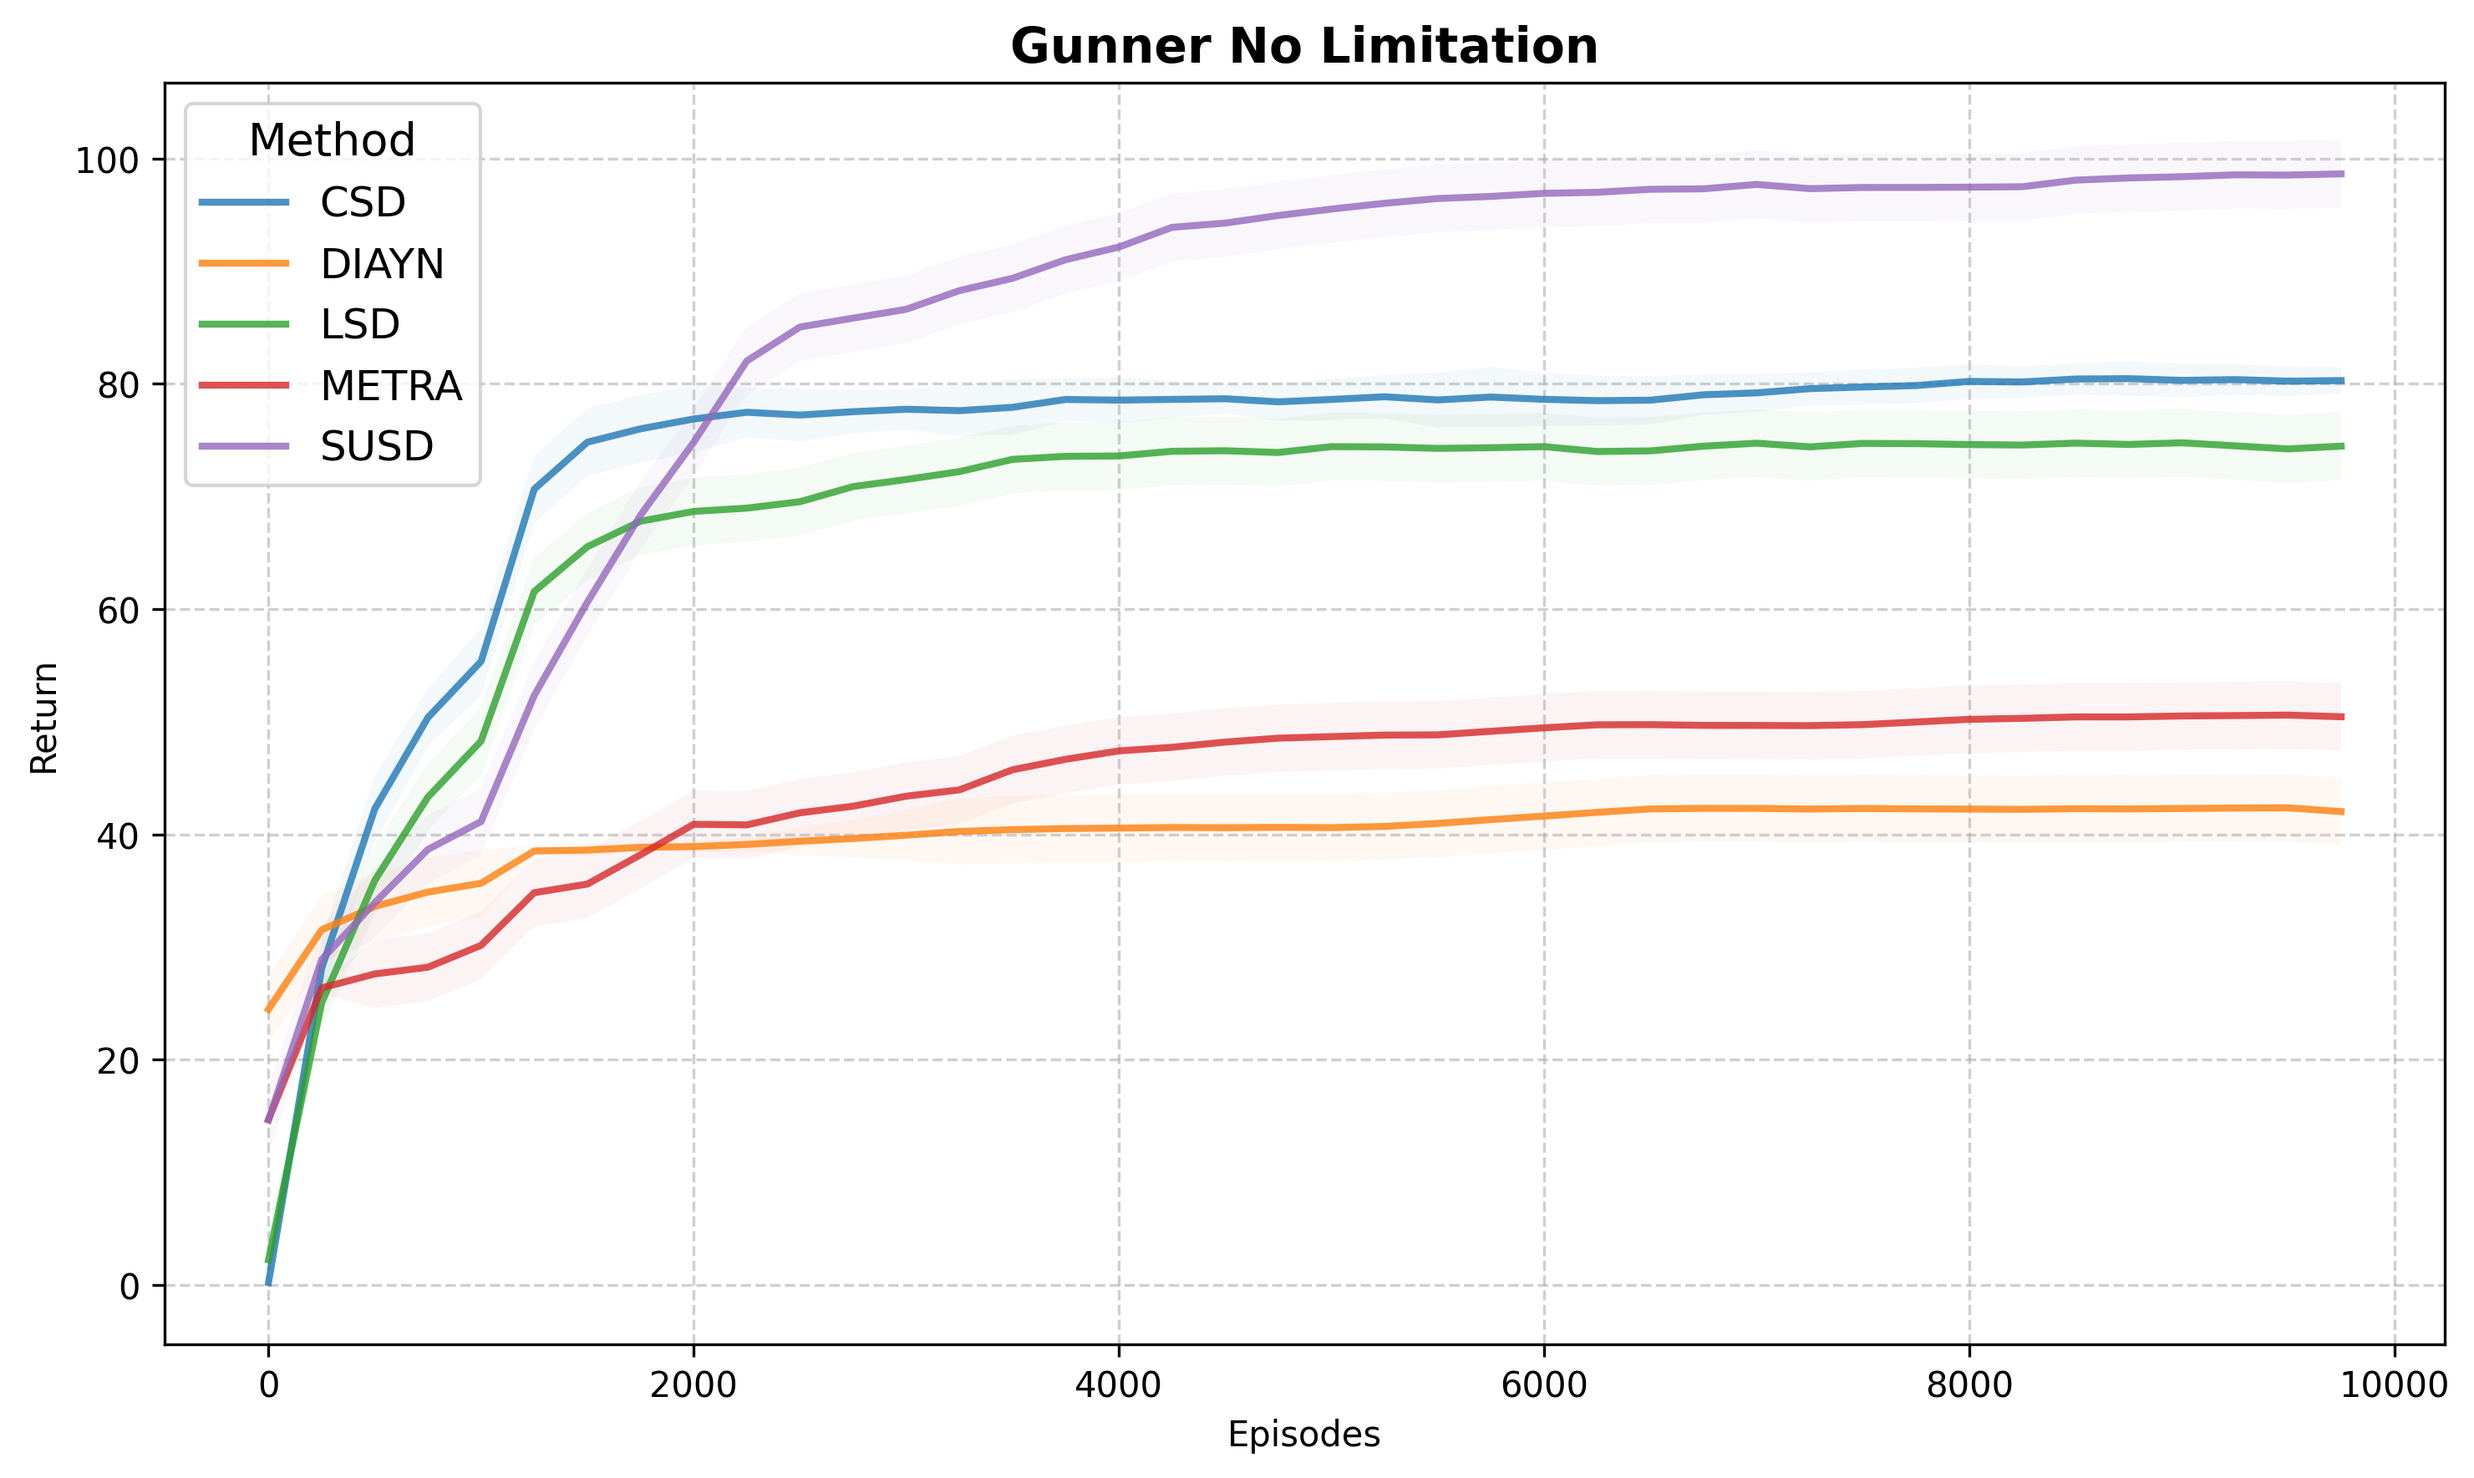
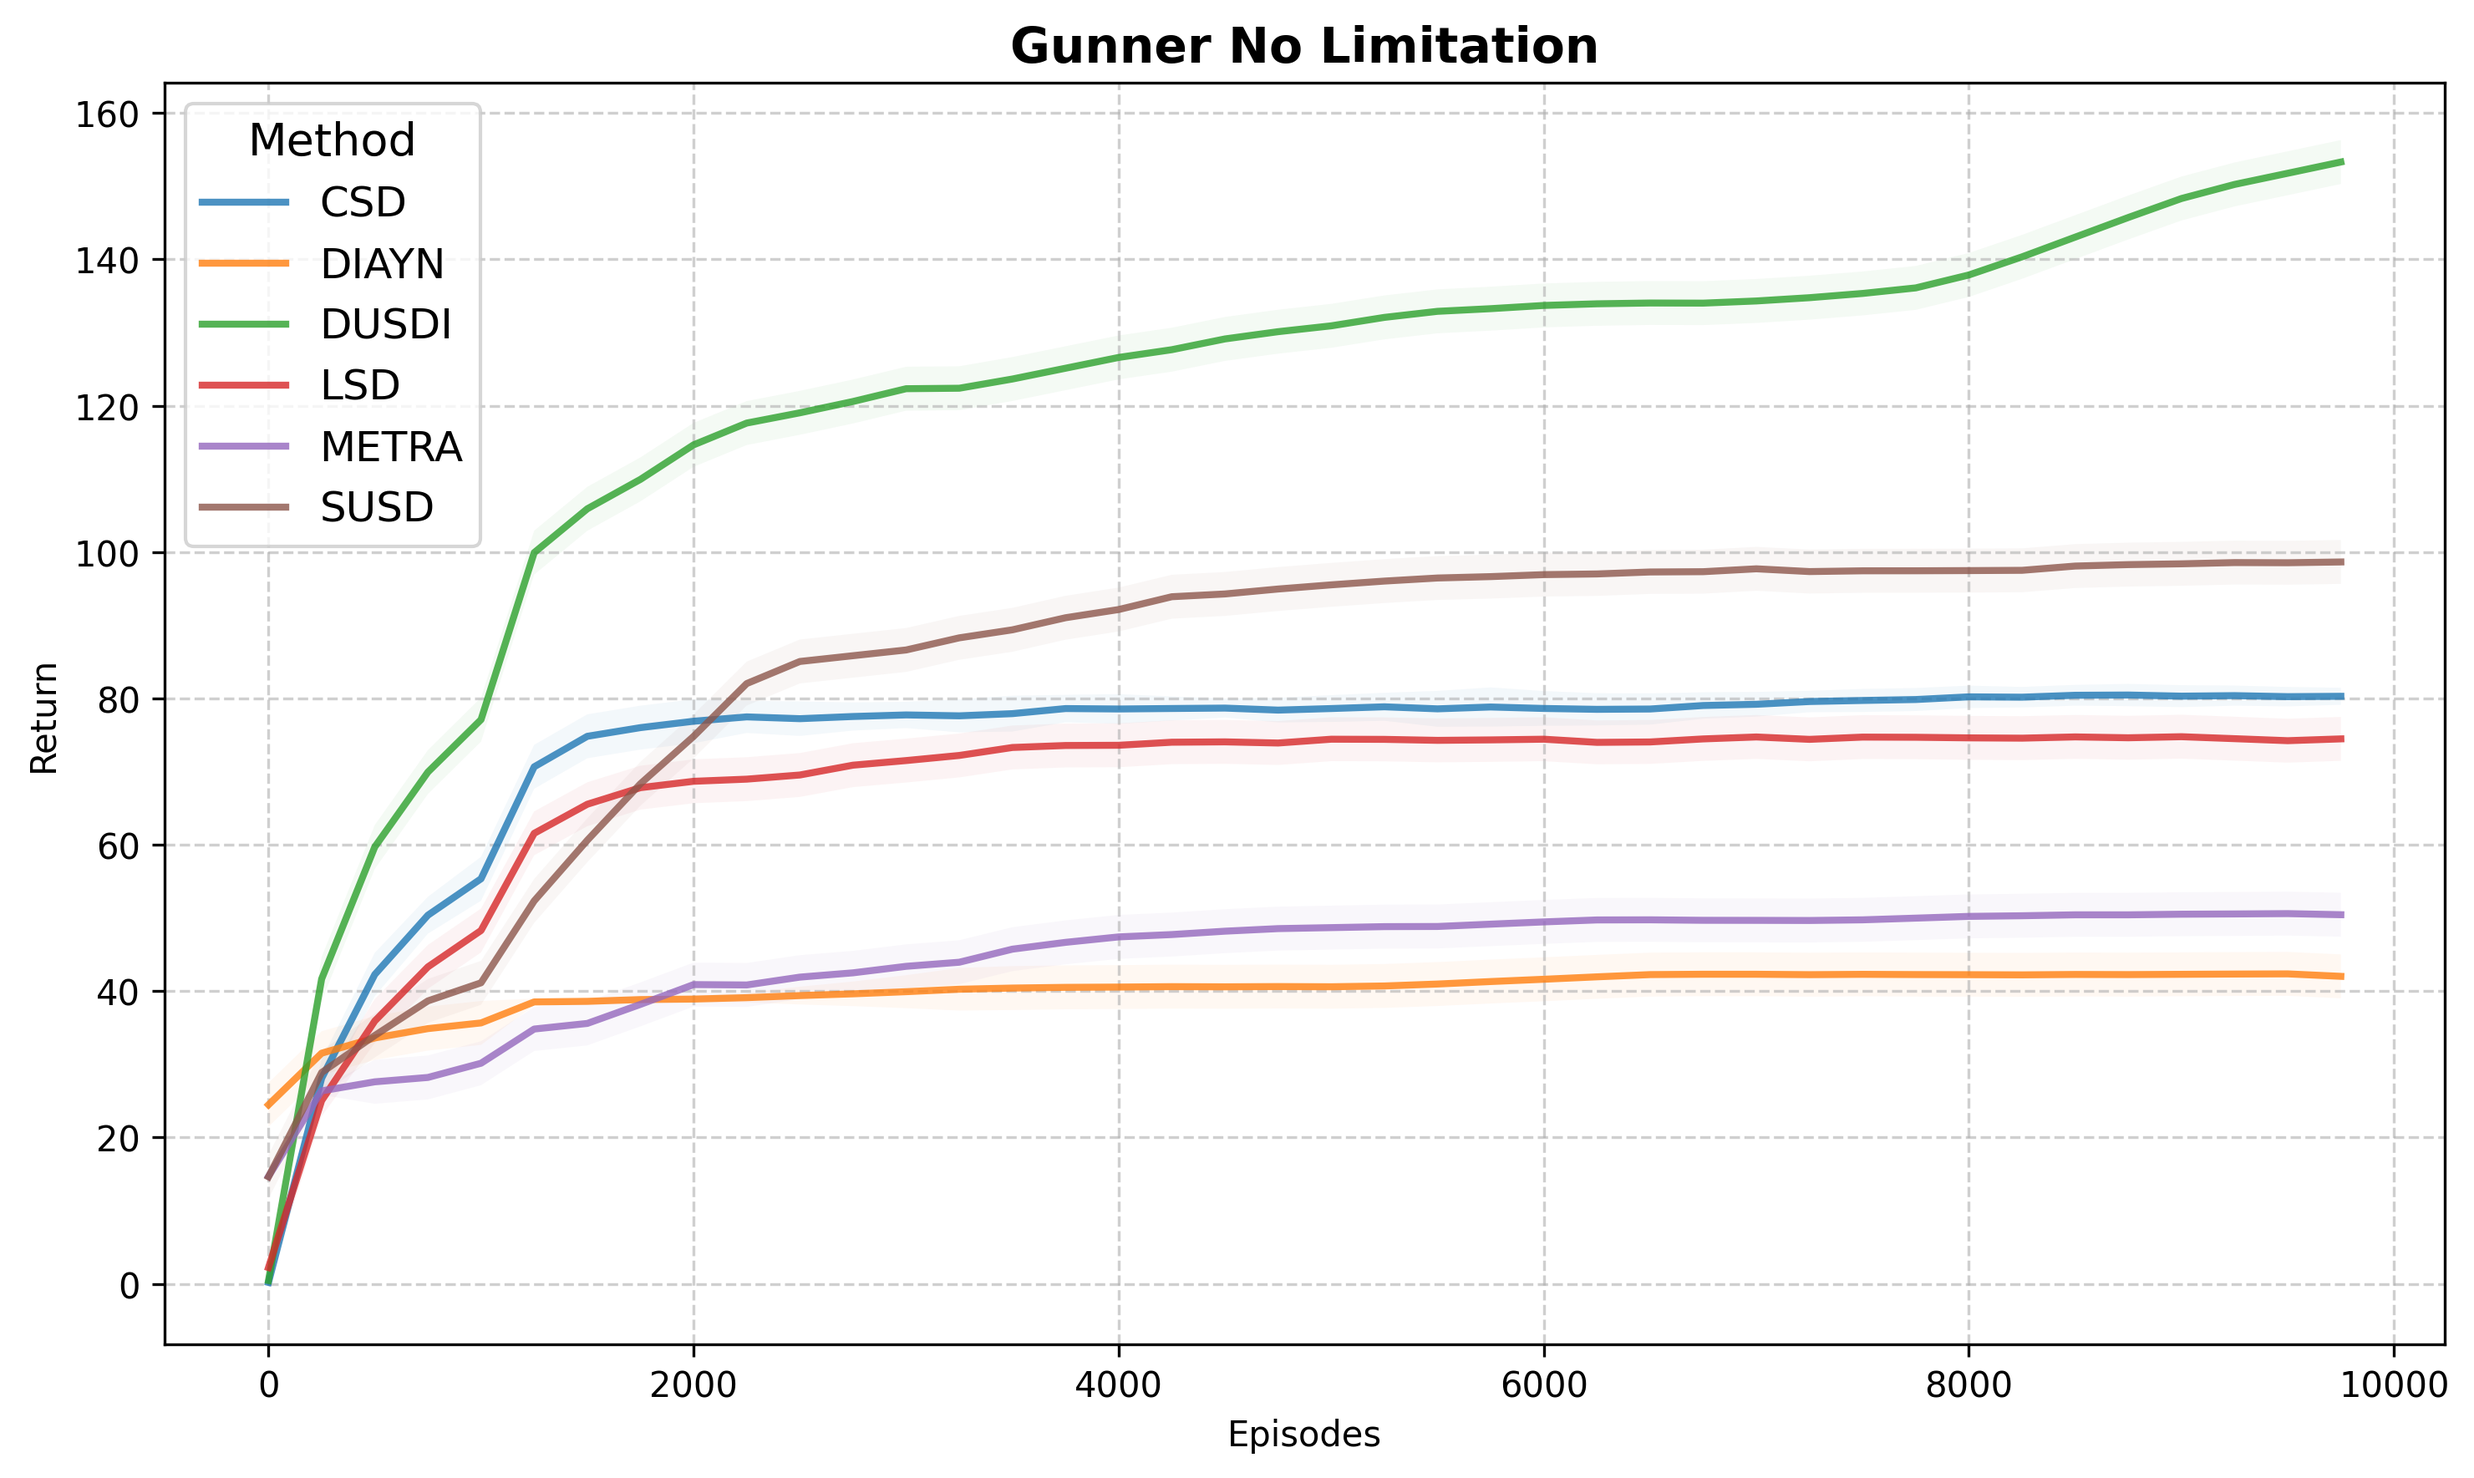
the first version of oversampling add

diff --git a/iod/susd.py b/iod/susd.py
@@ -41,7 +41,7 @@ class SUSD(IOD):
             q1_list,
             # log_alpha_list,
             susd_q_function,
-            susd_ablation1,
+            susd_ablation_mode,
 
             **kwargs,
     ):
@@ -98,7 +98,11 @@ class SUSD(IOD):
         self.exp_name = exp_name
         self.susd_dist_norm = susd_dist_norm
         self.susd_input_factor0 = susd_input_factor0
-        self.susd_ablation1 = susd_ablation1
+        self.susd_ablation_mode = susd_ablation_mode
+
+
+        self.adaptive_base = 0.0
+        self.adapative_base_count = 0
 
         assert self._trans_optimization_epochs is not None
 
@@ -134,8 +138,12 @@ class SUSD(IOD):
             epoch_data[key] = torch.tensor(np.concatenate(value, axis=0), dtype=torch.float32, device=self.device)
         return epoch_data
 
-    def _update_replay_buffer(self, data):
+    def _update_replay_buffer(self, data, oversample_factor=100):
         if self.replay_buffer is not None:
+
+            if self.susd_ablation_mode == 3:
+                csd_distances = data.pop('csd_distances')
+            
             # Add paths to the replay buffer
             for i in range(len(data['actions'])):
                 path = {}
@@ -144,7 +152,12 @@ class SUSD(IOD):
                     if cur_list.ndim == 1:
                         cur_list = cur_list[..., np.newaxis]
                     path[key] = cur_list
+
                 self.replay_buffer.add_path(path)
+                
+                if self.susd_ablation_mode == 3 and csd_distances[i] > self.adaptive_base: # oversample good samples in the buffer
+                    for _ in range(oversample_factor - 1):
+                        self.replay_buffer.add_path(path)
 
     def _sample_replay_buffer(self):
         samples = self.replay_buffer.sample_transitions(self._trans_minibatch_size)
@@ -156,6 +169,11 @@ class SUSD(IOD):
         return data
 
     def _train_once_inner(self, path_data, runner):
+
+        if self.susd_ablation_mode == 3: # if oversampling is activate, then calculate the CSD for each rollout
+            csd_distances = self._compute_csd(path_data) 
+            path_data["csd_distances"] = csd_distances.detach().cpu().numpy()
+
         self._update_replay_buffer(path_data)
 
         epoch_data = self._flatten_data(path_data)
@@ -291,6 +309,25 @@ class SUSD(IOD):
 
         return mean_partitions, std_partitions
 
+    def _compute_csd(self, path_data):
+        epoch_data = self._flatten_data(path_data)
+        data = {}
+        for key, value in epoch_data.items():
+            data[key] = value
+
+        obs = data['obs']
+        next_obs = data['next_obs']
+        s2_dist = self.dist_predictor(obs)
+        s2_dist_mean = s2_dist.mean
+        s2_dist_std = s2_dist.stddev
+        scaling_factor = 1. / s2_dist_std
+        geo_mean = torch.exp(torch.log(scaling_factor).mean(dim=1, keepdim=True))
+        normalized_scaling_factor = (scaling_factor / geo_mean) ** 2
+        normalized_csd = torch.square((next_obs - obs) - s2_dist_mean) * normalized_scaling_factor
+        csd_distances = torch.mean(normalized_csd, dim=1)
+        return csd_distances
+
+
     def _update_loss_te(self, tensors, v, runner):
         self._update_rewards(tensors, v)
         rewards = v['rewards']
@@ -332,9 +369,9 @@ class SUSD(IOD):
                 normalized_scaling_factor = (scaling_factor / geo_mean) ** 2
                 normalized_csd = torch.square((next_obs - obs) - s2_dist_mean) * normalized_scaling_factor
 
-                if self.susd_ablation1:
+                if self.susd_ablation_mode == 1 or self.susd_ablation_mode == 3: # just CSD weight or Oversampling
                     csd_distances = torch.mean(normalized_csd, dim=1)
-                else:
+                elif self.susd_ablation_mode == 0: # SUSD
                     if self.susd_dist_norm:
                         if self.env_name == "kitchen_franka":
                             csd_distances = [(59.0 * normalized_csd[:, start:end])/(end - start) for start, end in zip(self.partition_points[:-1], self.partition_points[1:])]
@@ -345,10 +382,15 @@ class SUSD(IOD):
 
 
                 if self.do_print:
-                    if self.susd_ablation1:
+                    if self.susd_ablation_mode == 1: # just CSD weight
                         self.csd_logs.append((runner.step_itr, [csd_distances.mean().detach().cpu().numpy().item() for i in range(len(self.partition_points) - 1)]))
-                    else:
+                    elif self.susd_ablation_mode == 0: # SUSD
                         self.csd_logs.append((runner.step_itr, [csd_distances[:, i].mean().detach().cpu().numpy().item() for i in range(len(self.partition_points) - 1)]))
+
+                if self.susd_ablation_mode == 3: # update adaptive base in oversampling
+                    csd_sum = csd_distances.sum().item()
+                    self.adapative_base_count += csd_distances.shape[0]
+                    self.adaptive_base = self.adaptive_base + (csd_sum - self.adaptive_base)/self.adapative_base_count
 
                 v.update({'csd_distances': csd_distances})
 
@@ -484,12 +526,14 @@ class SUSD(IOD):
                 reward_i = self.qf1_list[i](self._get_concat_obs(self.option_policy.process_observations(v['obs'][:, start:end]), v['options'][:, start_option:end_option]), v['actions'])
                 rewards = rewards + reward_i
         else:
-            if self.susd_ablation1:
+            if self.susd_ablation_mode == 1: # just CSD weight
                 rewards = v['rewards'].sum(dim=1)
                 rewards = rewards * torch.sqrt(v['csd_distances'])
-            else:
+            elif self.susd_ablation_mode == 0: # SUSD method
                 rewards = v['rewards'] * torch.sqrt(v['csd_distances'])
                 rewards = rewards.sum(dim=1)
+            elif self.susd_ablation_mode == 3: # Oversampling
+                rewards = v['rewards']
 
         sac_utils.update_loss_qf(
             self, tensors, v,

diff --git a/src/conf.py b/src/conf.py
@@ -96,7 +96,7 @@ class SUSDConfig:
     dual_dist: str = 'one'  # Distance metric choice; options: 'l2', 's2_from_s', 'one'
     susd_dist_norm: int = 0 # to normalize each distribution 
     susd_input_factor0: int = 0 # input factor 0 (robot) to other phi functions.
-    susd_ablation1: int = 0 # use csd weight for all factors
+    susd_ablation_mode: int = 0 # use csd weight for all factors # mode=0, off, mode=1, just CSD weight; mode=2, Without weight, mode=3, Oversampling, 
 
 
 # --- Specific Configs ---
@@ -126,6 +126,7 @@ class SUSDFrankaKitchenConfig(SUSDConfig):
     susd_dist_norm: int = 1 # using normalization for marginal distribution
     susd_input_factor0: int = 1 # input factor zero (robot) to the other phi functions
     susd_q_function: int = 0 # 1: use q-function for reward estimation 0: off
+    susd_ablation_mode: int = 3 # use csd weight for all factors # mode=0, off, mode=1, just CSD weight; mode=2, Without weight, mode=3, Oversampling, 
 
 @dataclass
 class SUSDFetchConfig(SUSDConfig):
@@ -181,7 +182,7 @@ class SUSDAntConfig(SUSDConfig):
 
 @dataclass
 class SUSDParticle(SUSDConfig):
-    run_group: str = 'SUSD_ABLATION2_PARTICLE'
+    run_group: str = 'SUSD_PARTICLE'
     env: str = 'particle'
     max_path_length: int = 50
     seed: int = 0
@@ -205,13 +206,13 @@ class SUSDParticle(SUSDConfig):
     susd_dist_norm: int = 0 # using normalization for marginal distribution
     susd_input_factor0: int = 1 # input factor zero (robot) to the other phi functions
     susd_q_function: int = 0 # 1: use q-function for reward estimation 0: off
-    susd_ablation1: int = 1 # use CSD weight for all factors
+    susd_ablation_mode: int = 0 # use CSD weight for all factors
 
 
 
 @dataclass
 class SUSDGunner(SUSDConfig):
-    run_group: str = 'TEST'
+    run_group: str = 'SUSD_GUNNER'
     env: str = 'gunner'
     max_path_length: int = 50
     seed: int = 0
@@ -226,7 +227,7 @@ class SUSDGunner(SUSDConfig):
     n_epochs_per_eval: int = 250
     n_epochs_per_save: int = 1000
     discrete: int = 0
-    dim_option: int = 2
+    dim_option: int = 5 # 2 is default
     sample_cpu: int = 0
     dual_dist: str = 's2_from_s' 
     dual_lam: float = 3000
@@ -235,4 +236,4 @@ class SUSDGunner(SUSDConfig):
     susd_dist_norm: int = 0 # using normalization for marginal distribution
     susd_input_factor0: int = 1 # input factor zero (robot) to the other phi functions
     susd_q_function: int = 0 # 1: use q-function for reward estimation 0: off
-    susd_ablation1: int = 1 # use CSD weight for all factors
+    susd_ablation_mode: int = 0 # use CSD weight for all factors

diff --git a/visualization/mp_gunner.py b/visualization/mp_gunner.py
@@ -229,7 +229,7 @@ plot_result(gunner_nolim, save_path, title="Gunner No Limitation")
 
 
 ### plot_groups
-dfs = [mp_fp_diff, mp_fp_hard, mp_fp_medium, mp_fp_easy, mp_seq_easy, mp_seq_medium, mp_seq_hard]
+dfs = [mp_fp_diff, mp_fp_hard, mp_fp_medium, mp_fp_easy, mp_seq_easy, mp_seq_medium, mp_seq_hard, gunner_lim, gunner_nolim]
 titles = [
     "Multiparticle Food&Poison Difficult",
     "Multiparticle Food&Poison Hard",
@@ -238,8 +238,8 @@ titles = [
     "Multiparticle Sequential Easy",
     "Multiparticle Sequential Medium",
     "Multiparticle Sequential Hard",
-    # "Gunner with Limitation",
-    # "Gunner without Limitation"
+    "Gunner with Limitation",
+    "Gunner without Limitation"
 ]
 
 save_path = "visualization/vis/grouped_results.png"

diff --git a/src/pretrain.py b/src/pretrain.py
@@ -62,9 +62,9 @@ else:
     START_METHOD = 'spawn'
 
 
-# args = SUSDFrankaKitchenConfig()
+args = SUSDFrankaKitchenConfig()
 # args = SUSDParticle()
-args = SUSDGunner()
+# args = SUSDGunner()
 
 
 @wrap_experiment(log_dir=get_log_dir(args), name=get_exp_name(args)[0])
@@ -425,7 +425,7 @@ def run(ctxt=None):
         susd_dist_norm=args.susd_dist_norm,
         susd_input_factor0 = args.susd_input_factor0,
         susd_q_function = args.susd_q_function,
-        susd_ablation1 = args.susd_ablation1
+        susd_ablation_mode = args.susd_ablation_mode
     )
 
     if args.algo == 'metra':

diff --git a/src/factorization.py b/src/factorization.py
@@ -49,8 +49,8 @@ def factorize_environment(args):
     if args.env == "ant":
         state_factorization_points = [0, 29]
     elif args.env == "kitchen_franka":
-        state_factorization_points = [0, 18, 38, 44, 46, 59]
-        # state_factorization_points = [0, 59]
+        # state_factorization_points = [0, 18, 38, 44, 46, 59]
+        state_factorization_points = [0, 59]
     elif args.env == "fetch":
         state_factorization_points = [0, 11, 25]
     elif args.env == "particle":

diff --git a/envs/moma_2d/moma_2d_gym_env.py b/envs/moma_2d/moma_2d_gym_env.py
@@ -191,7 +191,7 @@ class MoMa2DGymEnv(MujocoTrait, gym.Env):
 	def get_reward(self):
 		return 0
 
-	def reset(self, seed=3): # None is pretrain; 0/1/3 is train
+	def reset(self, seed=None): # None is pretrain; 0/1/3 is train
 		self.step_count = 0
 		self.agent_traj = []
 
